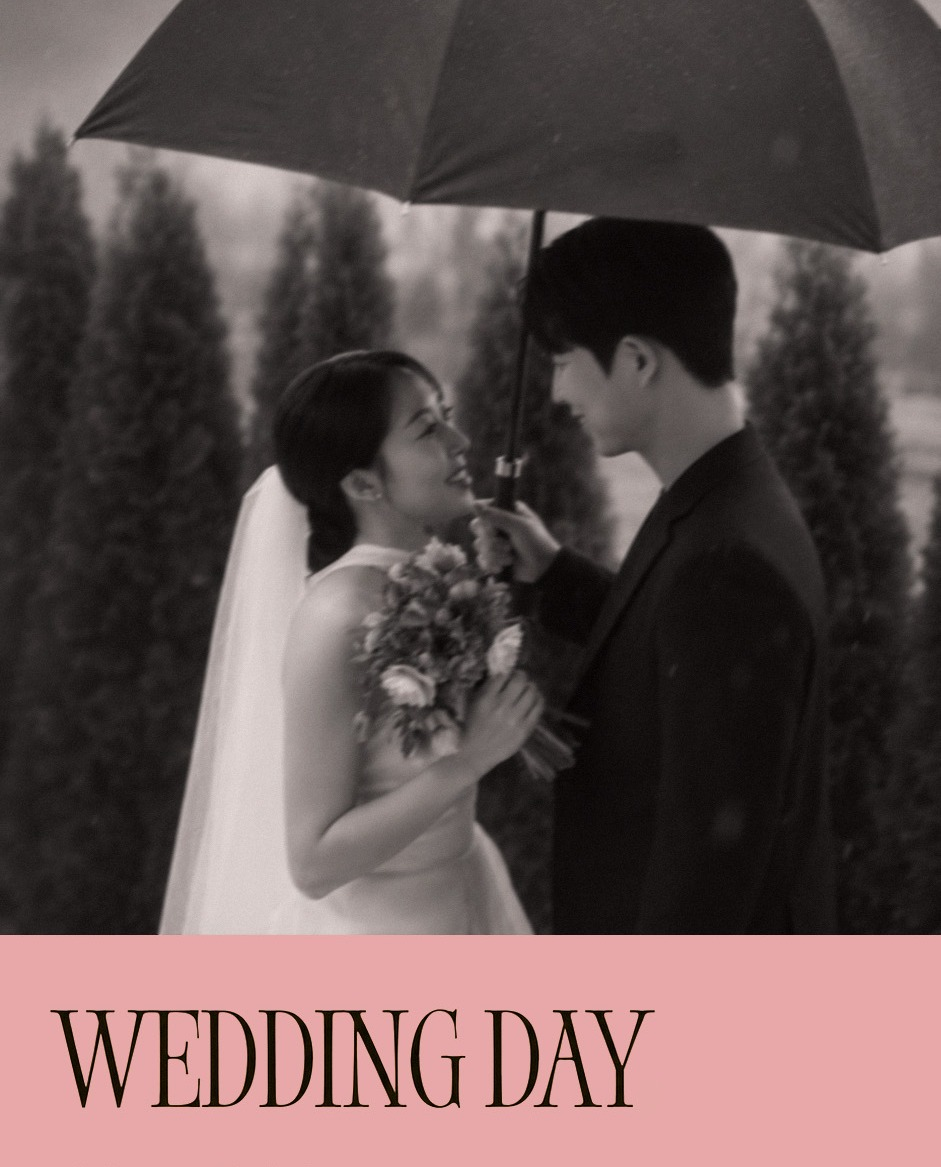
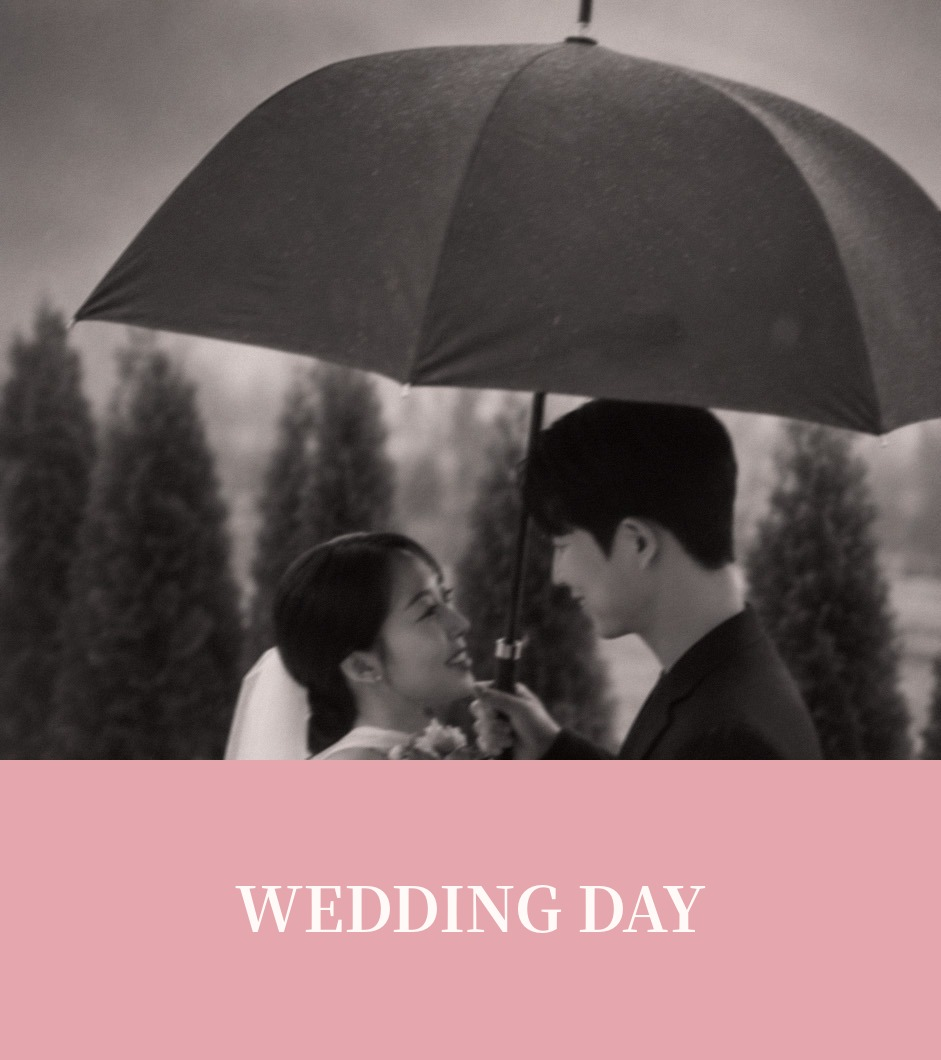
Add files via upload

diff --git a/index.html b/index.html
@@ -18,7 +18,7 @@
   <meta property="og:image:secure_url" content="https://hjlovesb.github.io/WEDDING1017_LOVE/images/intro/og-link-senior.jpg" />
   <meta property="og:image:type" content="image/jpeg" />
   <meta property="og:image:width" content="941" />
-  <meta property="og:image:height" content="1167" />
+  <meta property="og:image:height" content="1060" />
   <meta property="og:locale" content="ko_KR" />
 
   <meta name="twitter:card" content="summary_large_image" />

diff --git a/script.js b/script.js
@@ -2143,7 +2143,7 @@ async function initStoryPost() {
   function createSparkles() {
     layer.innerHTML = "";
 
-    const count = 48;
+    const count = 44;
 
     for (let i = 0; i < count; i++) {
       const el = document.createElement("span");
